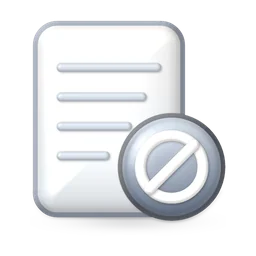
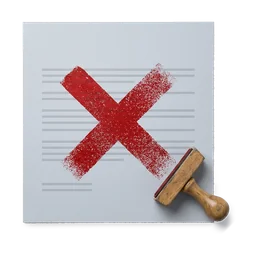
Metrología 8.17.6: íconos fotorrealistas del pedido 2, lote 10 (6 de 8)

diff --git a/index.html b/index.html
@@ -19,7 +19,7 @@
 
   <!-- Rutas relativas: la app también se sirve en /metrologia/ dentro del Portal Pet's Table -->
   <link rel="apple-touch-icon" sizes="180x180" href="apple-touch-icon.png?v=21">
-  <meta http-equiv="Content-Security-Policy" content="default-src 'self'; script-src 'self' https://cdn.jsdelivr.net 'sha256-lzPcFyYIS7av1YAhNWYUOF3WBxHlvObTNGr4PGUKEmE=' 'sha256-3TdSxOfoTy0bdhMmw19scBDFgKQ7B0AiDfAutbddEcE=' 'sha256-AKE09g5hDBmuibIbQRIP/Uvk/W/J9mNgdudTxo49CAo='; style-src 'self' 'unsafe-inline' https://fonts.googleapis.com; font-src https://fonts.gstatic.com; img-src 'self' data: blob: https://portal-petstable.vercel.app https://domumnsezocubigfqwry.supabase.co; connect-src 'self' https://domumnsezocubigfqwry.supabase.co wss://domumnsezocubigfqwry.supabase.co; manifest-src 'self'; worker-src 'self'; base-uri 'self'; form-action 'self'; object-src 'none'">
+  <meta http-equiv="Content-Security-Policy" content="default-src 'self'; script-src 'self' https://cdn.jsdelivr.net 'sha256-lzPcFyYIS7av1YAhNWYUOF3WBxHlvObTNGr4PGUKEmE=' 'sha256-QUEUPw/q4wc/DJwFS3JAtgl57G0pSSoObxQhJGC2ixk=' 'sha256-CnnZ1PlB8DSV+loYeYoYzJDGqhIF4rCHEZ3LUNYzAmM='; style-src 'self' 'unsafe-inline' https://fonts.googleapis.com; font-src https://fonts.gstatic.com; img-src 'self' data: blob: https://portal-petstable.vercel.app https://domumnsezocubigfqwry.supabase.co; connect-src 'self' https://domumnsezocubigfqwry.supabase.co wss://domumnsezocubigfqwry.supabase.co; manifest-src 'self'; worker-src 'self'; base-uri 'self'; form-action 'self'; object-src 'none'">
[1 lines of base64/hex data omitted]
   <link rel="manifest" href="manifest.webmanifest">
 
@@ -2722,7 +2722,7 @@ html:not(.en-portal) .portal-btn { display: none !important; }
 window.CALBAS_CONFIG = {
   SUPABASE_URL: "https://domumnsezocubigfqwry.supabase.co",
   SUPABASE_ANON_KEY: "sb_publishable_CDb37asQiekme1SuDnIANw_csZ5ZNRh",
-  APP_VERSION: "8.17.5"
+  APP_VERSION: "8.17.6"
 };</script>
   <script>(function () {
 'use strict';
@@ -3021,7 +3021,7 @@ const ICONOS_3D = new Set([ // Paquete de imágenes realistas (v1, 45 imágenes)
   'n_panel', 'n_patrones', 'n_perfil', 'n_usuarios', 'n_verificar', 'no_cumple', 'patron_ref', 'personas', 
   'por_verificar', 'potenciometro', 'reloj', 'sin_uso', 'tableta', 'termometro',
 ]);
-const ICO3D_VER = '7';
+const ICO3D_VER = '8';
 function con3d(n) { return !!n && ICONOS_3D.has(n); }
 document.addEventListener('error', (e) => {
   const img = e.target;

diff --git a/public/js/config.js b/public/js/config.js
@@ -7,5 +7,5 @@
 window.CALBAS_CONFIG = {
   SUPABASE_URL: "https://domumnsezocubigfqwry.supabase.co",
   SUPABASE_ANON_KEY: "sb_publishable_CDb37asQiekme1SuDnIANw_csZ5ZNRh",
-  APP_VERSION: "8.17.5"
+  APP_VERSION: "8.17.6"
 };
